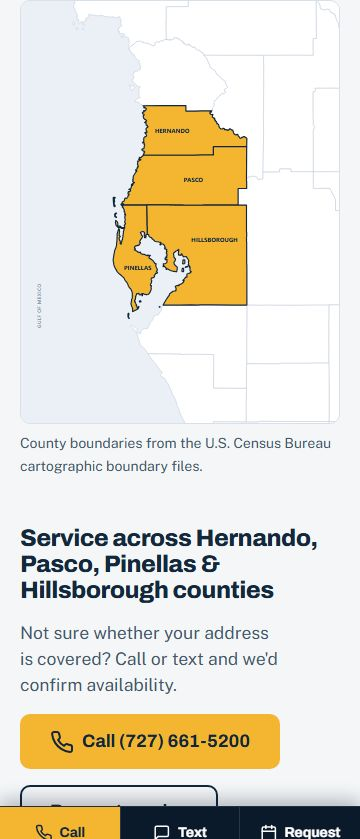
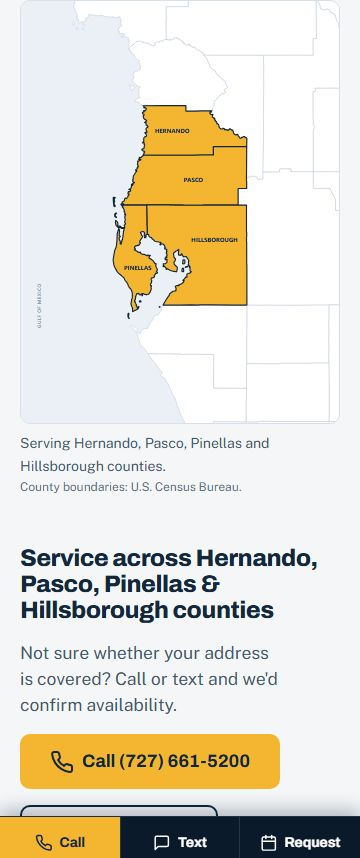
Polish pass: skip-link capture fix, proof copy, brand grid, map captions, TAB layout

diff --git a/src/styles/global.css b/src/styles/global.css
@@ -182,6 +182,7 @@ ol {
   border-radius: var(--r-md);
   box-shadow: var(--sh-md);
   text-decoration: none;
+  white-space: nowrap;
   transition: top var(--dur-fast) var(--ease-out);
 }
 
@@ -1443,28 +1444,36 @@ body.nav-open {
   list-style: none;
   padding: 0;
   margin: var(--sp-md) 0 0;
-  display: flex;
-  flex-wrap: wrap;
+  display: grid;
+  grid-template-columns: repeat(2, minmax(0, 1fr));
   gap: var(--sp-sm);
-  align-items: stretch;
+}
+
+@media (min-width: 40em) {
+  .brand-list {
+    grid-template-columns: repeat(3, minmax(0, 1fr));
+  }
+}
+
+@media (min-width: 64em) {
+  .brand-list {
+    grid-template-columns: repeat(6, minmax(0, 1fr));
+  }
 }
 
 .brand-box {
-  display: flex;
-  align-items: center;
-  justify-content: center;
+  display: grid;
+  place-items: center;
   background: var(--c-bg);
   border: 1px solid var(--c-line);
   border-radius: var(--r-md);
   padding: var(--sp-sm) var(--sp-md);
-  height: 4.5rem;
-  width: 8.5rem;
-  flex: none;
+  min-height: 6rem;
 }
 
 .brand-box img {
-  max-width: 100%;
-  max-height: 100%;
+  max-width: min(100%, 9rem);
+  max-height: 3.25rem;
   width: auto;
   height: auto;
   object-fit: contain;
@@ -1491,6 +1500,32 @@ body.nav-open {
   font-size: var(--text-sm);
   color: var(--c-ink-soft);
   margin-top: var(--sp-2xs);
+}
+
+.map-source {
+  display: block;
+  font-size: var(--text-xs);
+  color: var(--c-ink-soft);
+  opacity: 0.85;
+}
+
+/* TAB field photos: asymmetric editorial layout so portrait and landscape
+   photographs keep their natural aspect without stretched empty cards. */
+.tab-visuals {
+  display: grid;
+  gap: var(--sp-md);
+  align-items: start;
+  margin-top: var(--sp-lg);
+}
+
+@media (min-width: 48em) {
+  .tab-visuals {
+    grid-template-columns: minmax(0, 5fr) minmax(0, 7fr);
+  }
+}
+
+.tab-visuals .photo-card {
+  margin: 0;
 }
 
 .map-band {
@@ -1527,6 +1562,7 @@ body.nav-open {
   display: grid;
   gap: var(--sp-2xs);
   align-content: start;
+  padding: var(--sp-lg);
 }
 
 .conditions-approach h3 {

diff --git a/src/content/site/home.md b/src/content/site/home.md
@@ -118,28 +118,28 @@ final:
     Call, text, or send a request — we’ll confirm availability with you before
     anything is scheduled. Open 7:30 AM to 7:30 PM, every day.
 proof:
-  eyebrow: Behind the service
+  eyebrow: Workmanship
   heading: See the work behind the service
   lead: >-
-    From careful equipment installations to airflow measurement, here's a closer
-    look at the details we work on.
+    From installation details to airflow verification, take a closer look at the
+    workmanship and measurements behind our service.
   cards:
     - image: './images/linehide-and-disconnect.jpg'
       alt: 'Refrigerant line-set concealment (line hide) and electrical disconnect installed beside an outdoor unit'
-      title: Details that matter
-      text: 'A look at line-hide and disconnect installation details.'
+      title: Installation details that matter
+      text: 'Line-set concealment and a disconnect installed cleanly beside the outdoor unit.'
       linkLabel: AC installation services
       linkHref: '/services/replacement-installation/'
     - image: './images/fabricated-supply-plenum.jpg'
       alt: 'Site-fabricated sheet-metal supply plenum fitted during an installation'
-      title: Ductwork and airflow
-      text: 'Supply-plenum fabrication and ductwork details from the field.'
+      title: Purpose-built ductwork
+      text: 'A site-fabricated sheet-metal supply plenum, built and fitted for the installation.'
       linkLabel: Airflow services
       linkHref: '/services/airflow-ductwork/'
     - image: './images/airflow-measurement-at-grille.jpg'
       alt: 'Instrument taking an airflow reading at a supply grille during commercial/TAB field work'
-      title: Measurements, not assumptions
-      text: 'Field airflow measurement is part of understanding how a system is performing. Shown here from commercial/TAB field work.'
+      title: Measurements, not guesswork
+      text: 'Field airflow measurement at a supply grille during commercial/TAB work.'
       linkLabel: 'TAB & commissioning support'
       linkHref: '/tab-commissioning-support/'
 

diff --git a/docs/VERIFICATION.md b/docs/VERIFICATION.md
@@ -1,9 +1,25 @@
 # Verification
 
 What has actually been tested, where, and what remains unverified. This file is updated as
-verification continues. **Last updated: portfolio proof milestone (branch
-`portfolio-conversion-proof`): homepage proof cards, equipment-brands strip, Census
-county maps, TAB field visuals, FAQ conditions section.**
+verification continues. **Last updated: visual polish pass (branch
+`portfolio-conversion-proof`): skip-link capture automation fix, proof copy, brand grid, map
+captions, TAB asymmetric layout, conditions spacing.**
+
+## Visual polish pass — verification
+
+| Check | Result |
+| --- | --- |
+| `npm run verify` | **PASS** — 0 errors / 0 warnings / 0 hints, 15 pages |
+| `scripts/links.mjs` | **PASS** — 607 internal URLs, 0 broken |
+| `scripts/smoke.mjs` (360/1440) | **PASS** |
+| `scripts/a11y.mjs` (axe-core, 24 scans) | **PASS** — 0 violations |
+| Skip link — hidden by default | **PASS** — computed `top:-64px`, not focused, in normal browsing |
+| Skip link — keyboard focus | **PASS** — Tab focuses it, slides into view (`top:6px`), Enter jumps to `#main`; documented in `docs/verification/screenshots/skip-link-focused-360.jpg` |
+| Skip link — screenshot artifact | **RESOLVED** — the gold bar in earlier captures was a Playwright `captureBeyondViewport` artifact (fixed elements painted into expanded captures; DOM proved hidden). Automation now suppresses the skip link for captures only (`addInitScript` in both screenshot scripts); keyboard behavior untouched and verified separately |
+| Mobile action bar clearance | **PASS** — worst gap 254px above the bar at page bottoms across 6 routes at 360px |
+| Overflow + image loading (360/768/1440) | **PASS** — 0px overflow; all images loaded on all checked routes |
+| CTA integrity | **PASS** — 8 tel / 5 sms / 9 request links, all correctly formed (`tel:+17276615200`, `sms:+17276615200`) |
+| Polish check suite | **22/22 PASS** |
 
 ## Portfolio proof milestone — verification
 

diff --git a/AGENTS.md b/AGENTS.md
@@ -55,6 +55,7 @@ with the owner; never silently work around this file.
 | `npm run verify` | `check` + `build` — the minimum bar for any change |
 | `node scripts/smoke.mjs` | Real-browser smoke test (run `npm run preview` first; needs Playwright Chromium) |
 | `node scripts/screenshot.mjs` | Screenshots at 360/768/1440 for owner review |
+| `node scripts/screenshot-sections.mjs` | Section close-ups (proof, brands, maps, TAB, conditions) into `docs/verification/screenshots/sections/` |
 | `node scripts/a11y.mjs` | axe-core WCAG scan (needs preview server) |
 | `node scripts/links.mjs` | Broken internal-link check on `dist/` (run after build) |
 | `node scripts/photo.mjs <path>` | Photo guardrails: dimensions/size/format check; `--resize 2000 --write` downscales in place |
